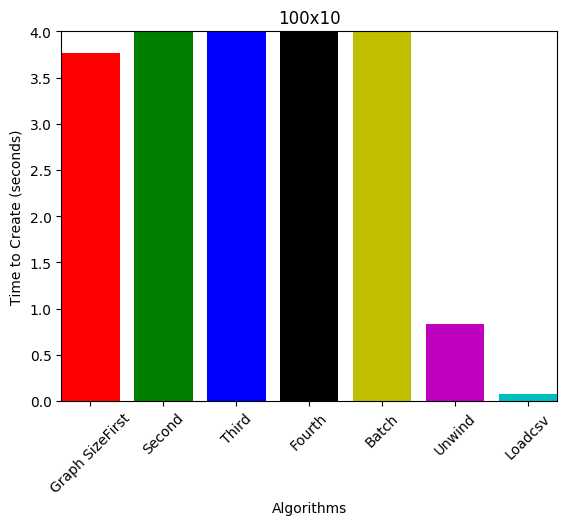
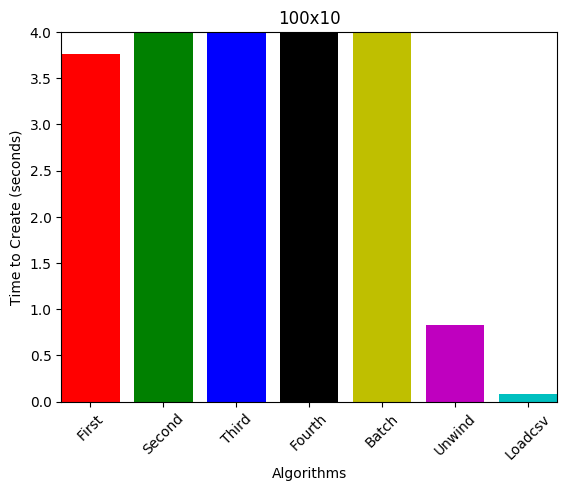
fix label error

diff --git a/src/main.cpp b/src/main.cpp
@@ -152,7 +152,6 @@ int main(int argc, char **argv) {
 
                 // Write algorithm name
                 if (i == 0) {
-                    fprintf(fout, "Graph Size");
                     fprintf(fout, "%s", alg->name);
                 }
                 else {
